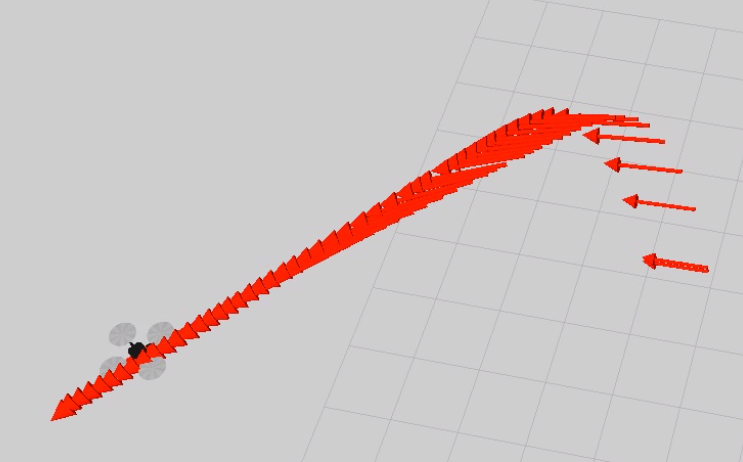
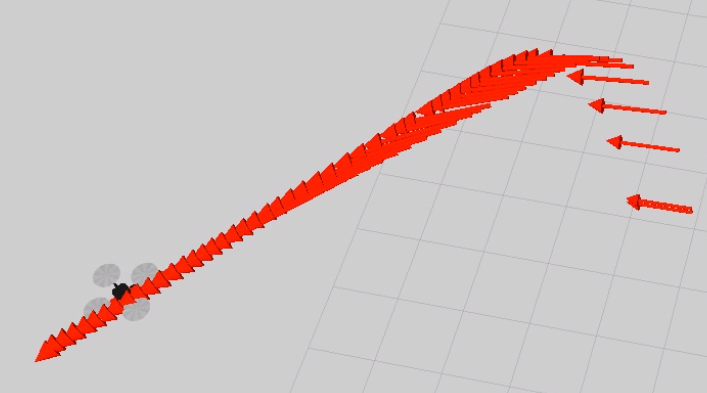
reports/abdeali: Show results for payload pos ctrl

Changed region(s): [[0.0311, 0.1221, 0.9646, 0.916], [0.8402, 0.4885, 0.9958, 0.6107], [0.8402, 0.4275, 0.9335, 0.458]]

diff --git a/report/abdeali/main.tex b/report/abdeali/main.tex
@@ -659,21 +659,28 @@ The {\bf reward} used is the L1 norm of the deviation from the target. The rewar
 
 \begin{figure}[H]
   \centering
-    \includegraphics[width=0.7\textwidth]{quadrotor_position_control2.png}
-    \caption{Quad-rotor using the trained policy by PEGASUS to move from one position (x, y, z, $\protect\omega$) to another.}
+    \begin{subfigure}[t]{0.45\textwidth}
+      \centering
+        \includegraphics[width=\textwidth]{quadrotor_position_control.png}
+    \end{subfigure}
+    \begin{subfigure}[t]{0.45\textwidth}
+      \centering
+        \includegraphics[width=\textwidth]{quadrotor_position_control2.png}
+    \end{subfigure}
+    \caption{Quad-rotor moving using the trained policy by PEGASUS to move from one position (x, y, z, $\protect\omega$) to another.}
 \end{figure}
 
 The roll and pitch are not considered in the target nor the state, as a quad-rotor cannot hover at a position with a non-zero roll and pitch. Hence, the target's roll and pitch is always assumed to be zero. It is impossible to learn a policy which allows the quad-rotor to maintain a specific roll and pitch as it would simply move to another orientation, and when returning back to the $(x, y, z, \omega)$ the roll and pitch will again change.
 
 Trying to maintain a roll and pitch is the specific case of unstable targets. In aerobatics, veteran human pilots attempt to maintain the quad-rotor in an inverted state. Our method gives the quad-rotor a negative reward in such cases as this is a difficult method to learn. The policy is unable to handle a unstable like this, and things spiral out of control.
 
-Unstable states like the ones seen in aerobatics have the problem that the mechanism is too complex to model into simple closed form reward functions. Apprenticeship learning is something that would make this possible, as was done by Andrew Ng, Jin Kim, Michael Jordan, and Shankar Sastry in their work with inverted helicopters \cite{InvertedHelicopterFlight}.
-
 \begin{figure}[H]
   \centering
     \includegraphics[width=\textwidth]{quadrotor_position_control_time.png}
     \caption{Value of best policy found with each iteration of PEGASUS to move to a given target position $(x, y, z, \omega) = (5, 5, 5, 60\protect^{\circ})$ with stochastic wind.}
 \end{figure}
+
+Unstable states like the ones seen in aerobatics have the problem that the mechanism is too complex to model into simple closed form reward functions. Apprenticeship learning is something that would make this possible, as was done by Andrew Ng, Jin Kim, Michael Jordan, and Shankar Sastry in their work with inverted helicopters \cite{InvertedHelicopterFlight}.
 
 \subsection{Time analysis}
 
@@ -685,17 +692,31 @@ Currently, ODE does not have GPU capabilities and so is forced to run in the CPU
 
 \section{Payload control}
 
+The next step is to control the payload's position. Here, a payload is suspended on the quad-rotor with some freedom at the joint. This makes the payload move in it's own path, not fixed by the quad-rotor's path. Hence, the inertia the payload accumulates cannot be directly controlled.
+
 \begin{figure}[H]
   \centering
-    \includegraphics[width=0.4\textwidth]{quadrotor_payload_sim.png}
+    \includegraphics[width=0.4\textwidth]{payload_sim.png}
     \caption{Payload on quad-rotor simulated by Hector Quadrotor, ROS, and gazebo.}
 \end{figure}
-
-The next step is to control the payload's position. Here, a payload is suspended on the quad-rotor with some freedom at the joint. This makes the payload move in it's own path, not fixed by the quad-rotor's path. Hence, the inertia the payload accumulates cannot be directly controlled.
 
 The state vector used in PEGASUS is again the same as above, but it uses the state of the payload rather than that of the quad-rotor. Also, the target state that needs to be acheived is the payload's state.
 
 The action is still the action of the quad-rotor. There is no action that can be done directly on the payload as the joint is not actuated. Hence, the only variables that are controllable are the velocities (linear and angular) of the quad-rotor. It is interesting to note that when using the above reward and policy class the payload moves in a smooth trajectory without much deviation from the intended behaviour. This is without any state information of the quad-rotor. This is probably because the state information of the quad-rotor is highly correlated to the state of the payload. If more joints need to be added (like a chain for example), this would not hold true and a better policy would need to be considered.
+
+With 3 chain links, although the policy class used was sub optimal, the value function of the payload's policy converged to a better policy than the original one without the payload (a policy with lower value). Hence, the policy was fine tuned to this payload. If the joint angles are known using an angular position sensor, the policy found can be made even more precise as the state representation will be better.
+
+\begin{figure}[H]
+  \centering
+    \includegraphics[width=0.8\textwidth]{payload_position_control_time.png}
+    \caption{Value of best policy with each iteration of PEGASUS to move to a given target position $(x, y, z, \omega) = (5, 5, 5, 60\protect^{\circ})$. The payload is attached with a chain consisting 3 links and the initial policy is the optimal policy without the payload.}
+\end{figure}
+
+\begin{figure}[H]
+  \centering
+    \includegraphics[width=0.6\textwidth]{payload_position_control.png}
+    \caption{Payload moving using the trained policy by PEGASUS to move from one position (x, y, z, $\protect\omega$) to another.}
+\end{figure}
 
 %%%%%%%%%%%%%%%%%%%%%%%%%%%%%%%%%%%%%%%%%%%%%%%%%%
 \chapter{Trajectory control}
